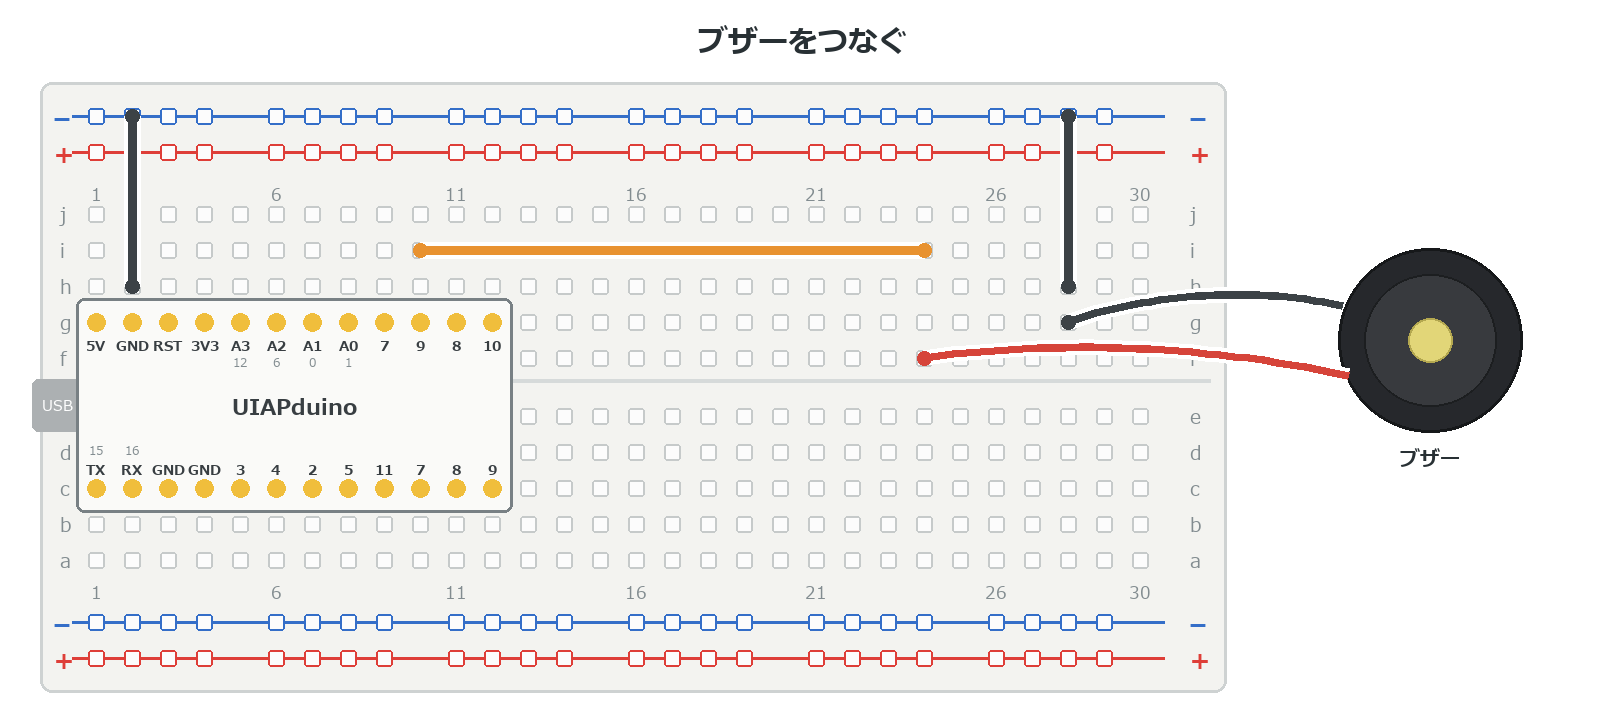
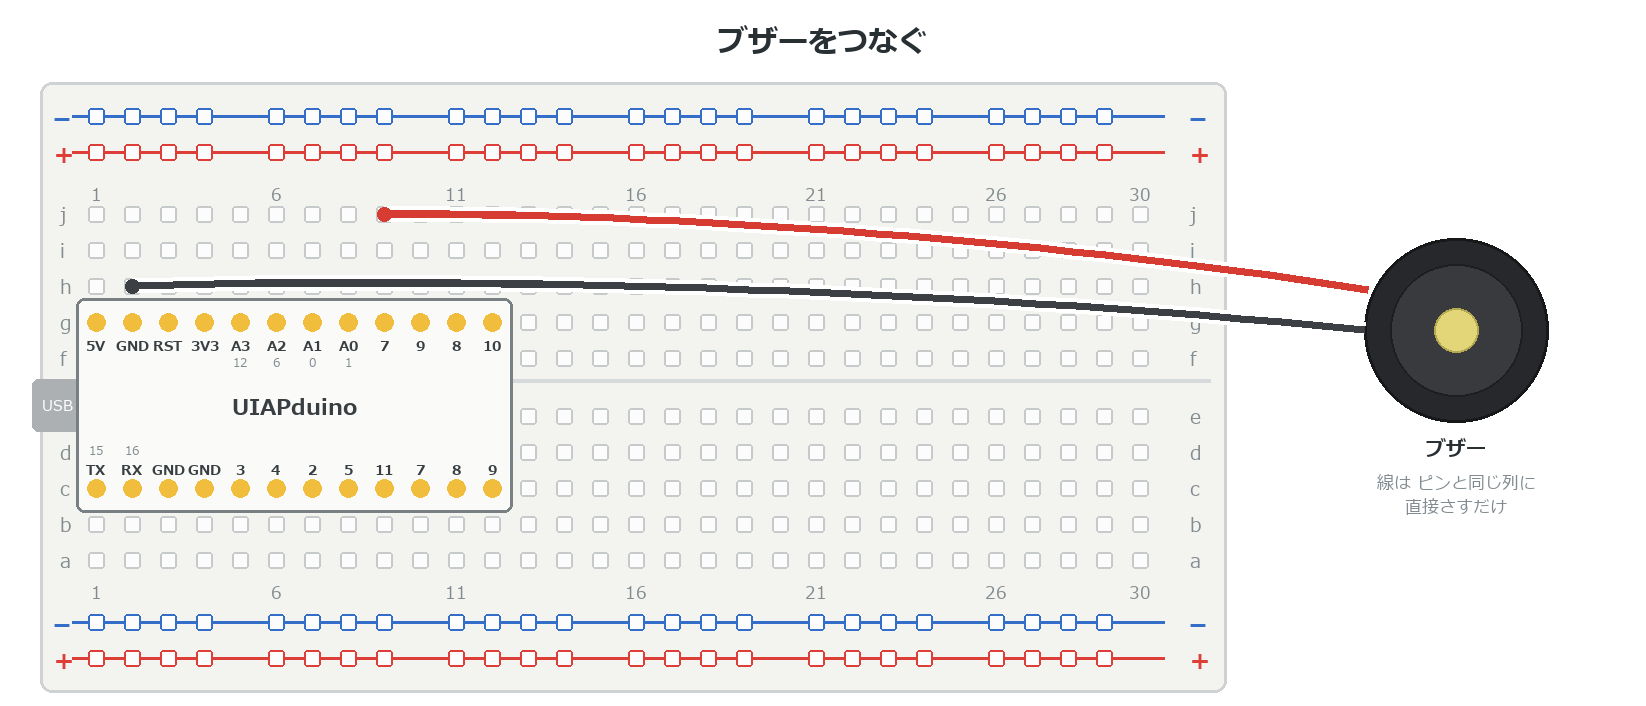
b5 のブザーを、マイコンのピンの列に直接さす配線にした
赤い線を 7番の列（9列目）、黒い線を GND の列（2列目）に直接さす。
ジャンパーワイヤーもレールも使わないので、配線が楽になる。

前の図はオレンジの線が 10列目（＝9番）から出ていて、本文・プログラムの
7番と食いちがっていた。図のスクリプトが残っていなかったので
tools/fig_bb_buzzer.py として作り直した。

diff --git a/docs/b5_buzzer/index.html b/docs/b5_buzzer/index.html
@@ -67,17 +67,17 @@
 
 :::
 
-**USBケーブルを抜いてから**つなごう。
+**USBケーブルを抜いてから**つなごう。ジャンパーワイヤーは**いらない**よ。
 
-1. ブザーの片方を **7番ピン**につなぐ
-2. もう片方を **GND** につなぐ
+1. ブザーの**赤い線**を **7番の列**（h〜j 行）にさす
+2. **黒い線**を **GND の列**（h〜j 行）にさす
 
-> ＋の印があればその向きに。無ければどちら向きでもOK。
+> ピンと**同じ列の穴**は、そのピンにつながっているんだ。
 > ⚠ 音の高さが変わらないときは**受動ブザー**か確かめよう。
 
 :::
 
-![7番ピンとGNDにつなぐ。向きはどちらでもOK](image/index/bb_buzzer.png)
+![赤を 7番の列、黒を GND の列に直接さす](image/index/bb_buzzer.png)
 
 ---
 

diff --git a/tools/fig_bb_buzzer.py b/tools/fig_bb_buzzer.py
@@ -1,0 +1,30 @@
+# -*- coding: utf-8 -*-
+"""b5 ブザーの配線図。
+
+ブザーのリード線を、**マイコンのピンと同じ列に直接**さす（ジャンパーワイヤーなし）。
+  赤 → 7番の列（9列目）／ 黒 → GND の列（2列目）
+ボードのピンは c〜g 行をふさいでいるが、同じ列の h〜j 行はそのピンにつながっている。
+
+⚠ 上の行のピンは 9列目が「7」、10列目が「9」。まちがえやすいので注意
+  （前の図はオレンジの線が 10列目＝9番から出ていた。2026-10-24 に描き直し）。
+"""
+import sys
+sys.path.insert(0, "tools")
+sys.stdout.reconfigure(encoding="utf-8")
+from bb import *
+
+RED, BLACK = (214, 60, 50), (60, 64, 68)
+
+im, d = new("ブザーをつなぐ", extra_w=380)
+board(d)
+mcu(d)
+
+bx, by = W + 190, 330
+buzzer(d, bx, by)
+# 上から出す赤は上の j 行へ、下から出す黒は h 行へ。こうすると2本が交差しない
+lead(d, bx - 88, by - 40, (9, "j"), RED)     # 赤 → 7番の列
+lead(d, bx - 92, by + 0, (2, "h"), BLACK)    # 黒 → GND の列
+
+center(d, bx, by + 140, "線は ピンと同じ列に", reg(17), GRAY)
+center(d, bx, by + 164, "直接さすだけ", reg(17), GRAY)
+save(im, "b5_buzzer", "bb_buzzer.png")
